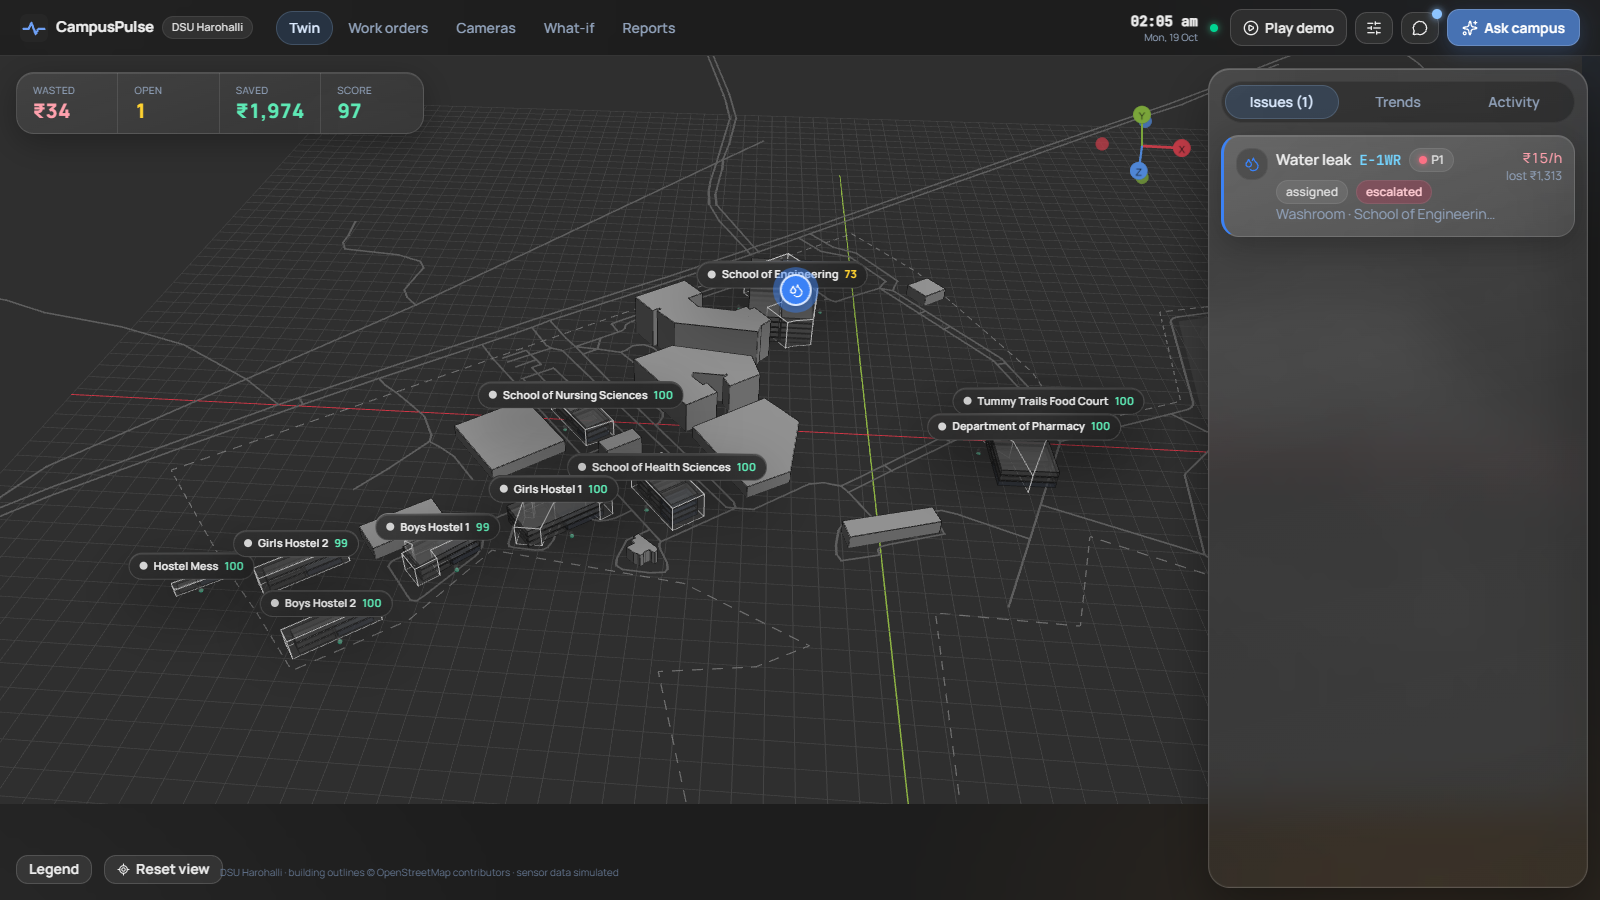
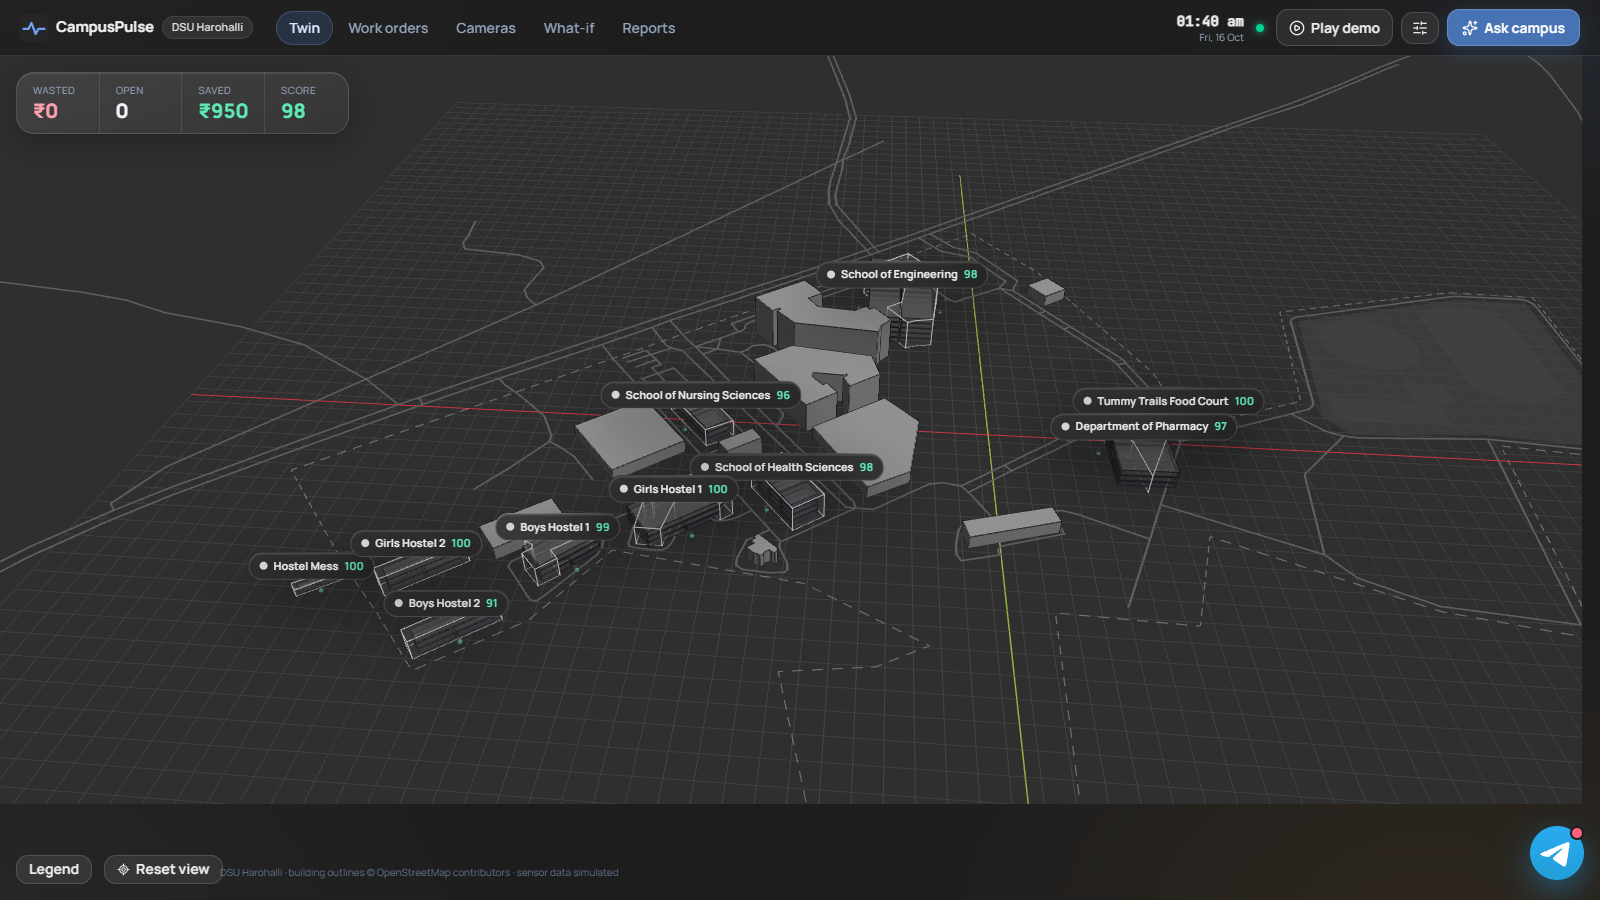
Floating Telegram button for staff messages; hide issues side panel on the twin

diff --git a/frontend/src/App.jsx b/frontend/src/App.jsx
@@ -1,7 +1,8 @@
 import { lazy, Suspense, useEffect, useRef, useState } from 'react'
 import { NavLink, Route, Routes } from 'react-router-dom'
-import { Box, Camera, ClipboardList, FileText, FlaskConical, Loader2, MessageCircle, PlayCircle, Sparkles, SlidersHorizontal } from 'lucide-react'
+import { Box, Camera, ClipboardList, FileText, FlaskConical, Loader2, PlayCircle, Sparkles, SlidersHorizontal } from 'lucide-react'
 import { useStore } from './store'
+import TelegramIcon from './components/TelegramIcon'
 import PhonePanel from './components/PhonePanel'
 import CopilotDrawer from './components/CopilotDrawer'
 import DemoPanel from './components/DemoPanel'
@@ -90,10 +91,6 @@ export default function App() {
             <PlayCircle size={16} /><span className="hidden lg:inline">Play demo</span>
           </button>
           <button className="btn !px-2.5" onClick={toggleDemo} title="Try a scenario (Ctrl+D)"><SlidersHorizontal size={16} /></button>
-          <button className={`btn !px-2.5 relative ${phoneOpen ? '!border-blue-300/50' : ''}`} onClick={togglePhone} title="Staff messages">
-            <MessageCircle size={16} />
-            {unread && <span className="absolute -top-1 -right-1 w-2.5 h-2.5 rounded-full bg-blue-300 shadow-[0_0_8px_#93c5fd]" />}
-          </button>
           <button className="btn btn-primary !px-2.5 md:!px-3.5" onClick={() => openCopilot()}>
             <Sparkles size={16} /><span className="hidden sm:inline">Ask campus</span>
           </button>
@@ -124,6 +121,15 @@ export default function App() {
         ))}
       </nav>
 
+      {/* floating Telegram button: opens the staff messages drawer */}
+      {ready && (
+        <button onClick={togglePhone} title="Staff messages (Telegram)" aria-label="Staff messages"
+          className={`no-print fixed z-40 right-4 bottom-[84px] md:bottom-5 rounded-full shadow-[0_10px_30px_rgba(34,158,217,0.45)]
+            transition hover:scale-105 active:scale-95 ${phoneOpen ? 'ring-2 ring-white/70' : ''}`}>
+          <TelegramIcon size={54} />
+          {unread && <span className="absolute top-0 right-0 w-3.5 h-3.5 rounded-full bg-rose-400 border-2 border-[#1d1d1d]" />}
+        </button>
+      )}
       {phoneOpen && ready && <PhonePanel />}
       <CopilotDrawer />
       <DemoPanel />

diff --git a/frontend/src/components/PhonePanel.jsx b/frontend/src/components/PhonePanel.jsx
@@ -1,6 +1,7 @@
 import { useEffect, useRef, useState } from 'react'
 import { CheckCheck, MessageCircle, Send } from 'lucide-react'
 import { RoleIcon } from './Icons'
+import TelegramIcon from './TelegramIcon'
 import { api } from '../api'
 import { useStore } from '../store'
 
@@ -14,7 +15,7 @@ export default function PhonePanel() {
   const end = useRef(null)
   const feed = snap.feed.filter((m) => role === 'all' || m.role === role)
   const real = snap.channel !== 'console'
-  const app = snap.channel === 'telegram' ? 'Telegram' : 'WhatsApp'
+  const app = ['telegram', 'console'].includes(snap.channel) ? 'Telegram' : 'WhatsApp'
 
   useEffect(() => { end.current?.scrollIntoView({ behavior: 'smooth' }) }, [feed.length])
 
@@ -23,9 +24,10 @@ export default function PhonePanel() {
   }
 
   return (
-    <aside className="no-print glass-strong fixed inset-2 top-[64px] md:inset-auto md:right-4 md:top-[68px] md:bottom-4 md:w-[360px] z-40 flex flex-col p-3 pop">
+    <aside className="no-print glass-strong fixed inset-x-2 top-[64px] bottom-[148px] md:inset-auto md:right-4 md:top-[68px] md:bottom-[88px] md:w-[360px] z-40 flex flex-col p-3 pop">
       <div className="flex items-center gap-2 mb-2">
-        <div className={`w-8 h-8 rounded-full flex items-center justify-center ${snap.channel === 'telegram' ? 'bg-[#229ED9]' : 'bg-blue-500'}`}><MessageCircle size={16} className="text-white" /></div>
+        {app === 'Telegram' ? <TelegramIcon size={32} />
+          : <div className="w-8 h-8 rounded-full flex items-center justify-center bg-blue-500"><MessageCircle size={16} className="text-white" /></div>}
         <div className="flex-1 min-w-0">
           <div className="font-semibold text-sm leading-tight truncate">Staff {app}{snap.bot?.username ? ` · @${snap.bot.username}` : ''}</div>
           <div className="text-[11px] text-slate-400 leading-tight">

diff --git a/frontend/src/components/Twin3D.jsx b/frontend/src/components/Twin3D.jsx
@@ -1,6 +1,6 @@
-import { memo, useEffect, useMemo, useRef, useState } from 'react'
+import { memo, useMemo, useRef, useState } from 'react'
 import { Shape, Vector3 } from 'three'
-import { Canvas, useFrame, useThree } from '@react-three/fiber'
+import { Canvas, useFrame } from '@react-three/fiber'
 import { Edges, Line, OrbitControls } from '@react-three/drei'
 import { Camera, LocateFixed } from 'lucide-react'
 import { STATUS_COLOR, TYPE_META, useStore } from '../store'
@@ -113,19 +113,6 @@ const Bin = memo(function Bin({ bin, fill, selected, onSelect }) {
   )
 })
 
-// Shift the rendered image so the campus is centred in the area not covered by the panel/sheet,
-// regardless of how the user orbits: left on desktop (side panel), up on phones (bottom sheet).
-function ViewOffset() {
-  const { camera, size } = useThree()
-  useEffect(() => {
-    const desktop = size.width >= 768
-    camera.setViewOffset(size.width, size.height, desktop ? 120 : 0, desktop ? 0 : size.height * 0.2, size.width, size.height)
-    camera.updateProjectionMatrix()
-    return () => { camera.clearViewOffset(); camera.updateProjectionMatrix() }
-  }, [camera, size.width, size.height])
-  return null
-}
-
 // One loop moves every DOM overlay (building labels + issue pins) to its 3D anchor each frame.
 const _v = new Vector3()
 function Projector({ points, els }) {
@@ -178,7 +165,6 @@ export default function Twin3D() {
         <color attach="background" args={[VP.bg]} />
         <hemisphereLight args={['#ffffff', '#3a3a3a', 1.1]} />
         <directionalLight position={[300, 500, 200]} intensity={1.4} />
-        <ViewOffset />
         <OrbitControls ref={controls} target={target} maxPolarAngle={Math.PI / 2.15} minDistance={40} maxDistance={1600} makeDefault />
         <mesh rotation={FLAT} position={[0, -0.05, 0]}>
           <planeGeometry args={[8000, 8000]} />

diff --git a/frontend/src/pages/TwinPage.jsx b/frontend/src/pages/TwinPage.jsx
@@ -9,6 +9,8 @@ import { STATUS_COLOR, useStore } from '../store'
 
 const LEGEND = [['active', 'occupied'], ['idle', 'empty / off'], ['energy', 'energy waste'], ['water', 'water leak'],
   ['waste', 'bin / litter'], ['underused', 'underused booking'], ['fixed', 'fixed']]
+// issues / trends / activity side panel on the twin (hidden for now)
+const SHOW_OVERVIEW = false
 const FIX_LABEL = { tube_light: 'Tube lights', led_light: 'LED lights', fan: 'Fans', ac: 'AC', projector: 'Projector', pc: 'PCs', exhaust: 'Exhaust' }
 
 function ReportQR({ id }) {
@@ -219,13 +221,14 @@ export default function TwinPage() {
       <Twin3D />
       <KpiCard />
       <Legend />
-      {/* desktop: floating side panel; phone: bottom sheet over the lower part of the map */}
-      <aside className="glass-panel absolute z-10 p-3 overflow-auto
+      {/* details panel for the selected room/bin; the issues overview is hidden while SHOW_OVERVIEW is false.
+          desktop: floating side panel; phone: bottom sheet over the lower part of the map */}
+      {(selected || SHOW_OVERVIEW) && <aside className="glass-panel absolute z-10 p-3 overflow-auto
         md:right-3 md:top-3 md:bottom-3 md:w-[380px]
         max-md:inset-x-2 max-md:bottom-2 max-md:h-[44%] max-md:!rounded-b-2xl max-md:!rounded-t-3xl">
         <div className="md:hidden mx-auto mb-2 h-1 w-10 rounded-full bg-white/25" />
         {selected ? <Drawer id={selected} /> : <Overview />}
-      </aside>
+      </aside>}
     </div>
   )
 }

diff --git a/frontend/src/components/TelegramIcon.jsx b/frontend/src/components/TelegramIcon.jsx
@@ -1,0 +1,15 @@
+// Telegram logo (blue circle + paper plane), used for the staff-messages button.
+export default function TelegramIcon({ size = 52 }) {
+  return (
+    <svg width={size} height={size} viewBox="0 0 240 240" aria-hidden="true">
+      <defs>
+        <linearGradient id="tg-grad" x1="0.5" y1="0" x2="0.5" y2="1">
+          <stop offset="0" stopColor="#2AABEE" />
+          <stop offset="1" stopColor="#229ED9" />
+        </linearGradient>
+      </defs>
+      <circle cx="120" cy="120" r="120" fill="url(#tg-grad)" />
+      <path fill="#fff" d="M54.3 118.8c35-15.2 58.3-25.3 70-30.2 33.3-13.9 40.3-16.3 44.8-16.4 1 0 3.2.2 4.7 1.4 1.2 1 1.5 2.3 1.7 3.3s.4 3.1.2 4.7c-1.8 19-9.6 65.1-13.6 86.3-1.7 9-5 12-8.2 12.3-7 .6-12.3-4.6-19-9-10.6-6.9-16.5-11.2-26.8-18-11.9-7.8-4.2-12.1 2.6-19.1 1.8-1.8 32.5-29.8 33.1-32.3.1-.3.1-1.5-.6-2.1-.7-.6-1.7-.4-2.5-.2-1.1.2-17.9 11.4-50.6 33.5-4.8 3.3-9.1 4.9-13 4.8-4.3-.1-12.5-2.4-18.7-4.4-7.5-2.4-13.5-3.7-13-7.9.3-2.2 3.3-4.4 8.9-6.7z" />
+    </svg>
+  )
+}
